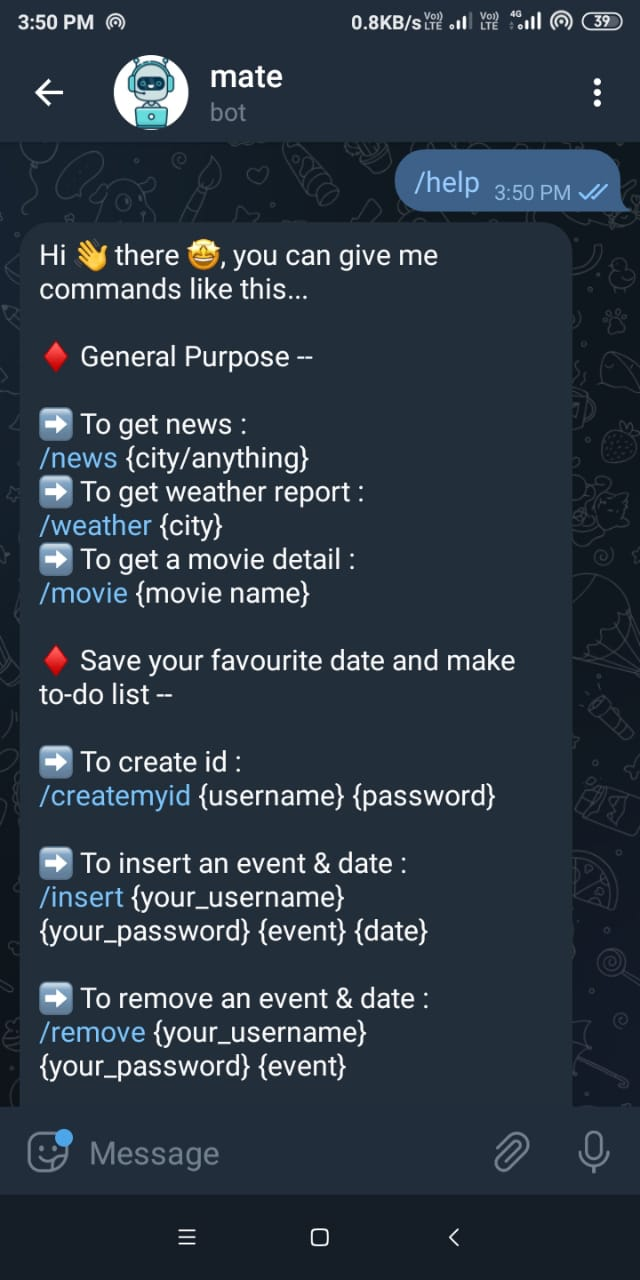
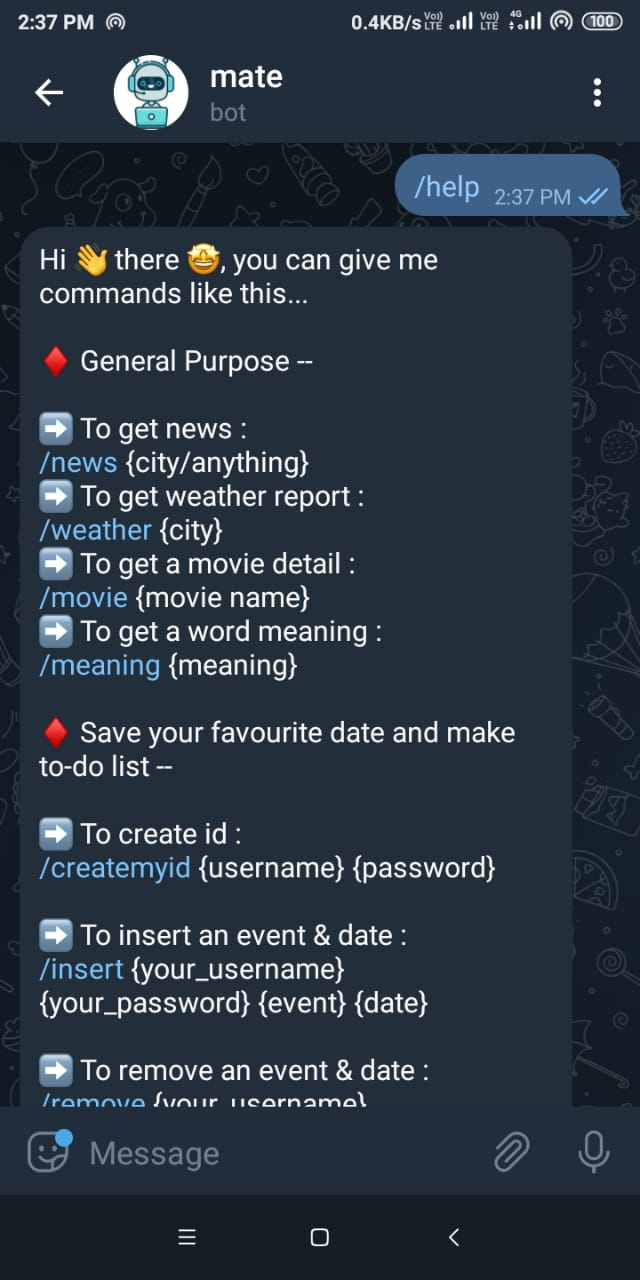
api starts working

diff --git a/app.js b/app.js
@@ -17,6 +17,7 @@ if (process.env.NODE_ENV === 'production') {
  } else {
     bot = new TelegramBot(TOKEN, { polling: true });
  }
+
 mongoose.connect(DB);
 
 const userSchema = new mongoose.Schema({
@@ -33,7 +34,7 @@ const markdownEnable = {parse_mode: "Markdown"};
 bot.onText(/\/start/, function(msg, match) {
     const chatId = msg.chat.id;
     bot.sendMessage(chatId, '* Hello! 👋 My name is Mate 🤠 I am made for you 😎*\n\n' +
-    'I can bring many informations for you such as news 📰, weather 🌤, movie detail 🎥 \nAlso I can save your favourite dates ❤ and daily tasks 📝 in me! 😉 \n\n_Would you like to try me ?_ Type /help !', markdownEnable)
+    'I can bring many informations for you such as news 📰, weather 🌤, movie detail and rating 🎥 and word meanings ❓ as well \n\nAlso I can save your favourite dates ❤ and daily tasks 📝 in me! 😉 \n\n_Would you like to try me ?_ Type /help !', markdownEnable)
 })
 
 bot.onText(/\/help/, function(msg, match) {
@@ -42,7 +43,8 @@ bot.onText(/\/help/, function(msg, match) {
     '♦ General Purpose --\n\n' +
     '➡ To get news : \n/news {city/anything}\n' +
     '➡ To get weather report : \n/weather {city}\n' +
-    '➡ To get a movie detail : \n/movie {movie name}\n\n' + 
+    '➡ To get a movie detail : \n/movie {movie name}\n' + 
+    '➡ To get a word meaning : \n/meaning {meaning}\n\n' + 
     '♦ Save your favourite date and make to-do list -- \n\n' + 
     '➡ To create id : \n/createmyid {username} {password}\n\n' +
     '➡ To insert an event & date : \n/insert {your_username} {your_password} {event} {date}\n\n' + 
@@ -68,21 +70,25 @@ bot.onText(/\/meaning (.+)/, function(msg, match) {
         if(!error && response.statusCode === 200) {
             bot.sendMessage(chatId, 'Looking for meaning of ' + word + '...')
             .then((msg) => {
-                res = JSON.parse(body);
-                console.log(res);
-                for(let i=0; i<res[0].meanings.length; i++) {
-                    bot.sendMessage(chatId, 
-                        '\nPart of speech : ' + res[0].meanings[i].partOfSpeech +
-                        '\n\nDefinitions : ' + res[0].meanings[i].definitions[0].definition + 
-                        '\n\nSynonyms : ' + res[0].meanings[i].synonyms[0] + 
-                        '\nAntonyms : ' + res[0].meanings[i].antonyms[0])
+                const res = JSON.parse(body);
+                if(res[0]) {
+                    for(let i=0; i<res[0].meanings.length; i++) {
+                        bot.sendMessage(chatId, 
+                            '\nPart of speech : ' + res[0].meanings[i].partOfSpeech +
+                            '\n\nDefinitions : ' + res[0].meanings[i].definitions[0].definition + 
+                            '\n\nSynonyms : ' + res[0].meanings[i].synonyms[0] + 
+                            '\nAntonyms : ' + res[0].meanings[i].antonyms[0]
+                        )
+                    }
+                } else {
+                    bot.sendMessage(chatId, 'Opps, ' + word + ' not found! 😞');
                 }
             })
             .catch(function(err) {
                 bot.sendMessage(chatId, 'Opps, ' + word + ' not found! 😞');
             })
         } else {
-            bot.sendMessage(chatId, 'Opps! Something went wrong 😞');
+            bot.sendMessage(chatId, 'Opps, ' + word + ' not found! 😞');
         }
     })
 })
@@ -96,7 +102,7 @@ bot.onText(/\/movie (.+)/, function (msg, match) {
             if (!error && response.statusCode == 200) {
                 bot.sendMessage(chatId, '_Looking for ' + movie + '..._', markdownEnable)
                 .then((msg) => {
-                    res = JSON.parse(body)
+                    const res = JSON.parse(body)
 
                     bot.sendPhoto(chatId, res.Poster, {
                         caption: '\nTitle : '  + res.Title + 
@@ -133,11 +139,9 @@ bot.onText(/\/news (.+)/, function (msg, match) {
 
 		if (!error && response.statusCode == 200) {
 
-			bot.sendMessage(chatId,
-				'_Looking for details of_ ' + city
-				+ '...', { parse_mode: "Markdown" })
-				.then((msg) => {
-				res = JSON.parse(body)
+			bot.sendMessage(chatId, '_Looking for details of_ ' + city + '...', { parse_mode: "Markdown" })
+            .then((msg) => {
+                const res = JSON.parse(body)
 
                 // bot.sendMessage(chatId, '_News of ' + city + '_', markdownEnable);
                 for(let i=0; i<10; i++) {
@@ -169,7 +173,7 @@ bot.onText(/\/weather (.+)/, function (msg, match) {
 
 			bot.sendMessage(chatId, '_Looking for details of_ ' + city + '...', { parse_mode: "Markdown" })
             .then((msg) => {
-                res = JSON.parse(body)
+                const res = JSON.parse(body)
                 var temp = Math.round((parseInt(
                     res.main.temp_min) - 273.15), 2)
 
@@ -198,7 +202,7 @@ bot.onText(/\/weather (.+)/, function (msg, match) {
                 bot.sendMessage(chatId, 'Opps! City not found 😞');
             })
 		} else {
-            bot.sendMessage(chatId, 'Opps! Something went wrong 😞');
+            bot.sendMessage(chatId, 'Opps! City not found 😞');
         }
 	})
 })

diff --git a/README.md b/README.md
@@ -6,7 +6,7 @@
 <a href="http://t.me/iAmAlbusYourMate_bot"><h1 align="center">mate</h1></a>
 
 
-<h2 align="center"> A friendly bot which can bring news, weather for you and save your daily tasks </h2>
+<h2 align="center"> A friendly bot which can bring news, weather, word meanings for you and save your daily tasks </h2>
 
 <h3>Some of the commands with examples</h3>
 
@@ -34,7 +34,7 @@
 - /weather [city] : This command will weather report of given city"
 
 <br>
-<img src="images/botNewsCommand.jpeg" alt="drawing" height="400" width="200">
+<img src="images/botWeatherCommand.jpeg" alt="drawing" height="400" width="200">
 
 ---
 
@@ -46,7 +46,7 @@
 
 --- 
 
-<h3>Find the bot <a href="http://t.me/iAmAlbusYourMate_bot">here</a>, or search on Telegram with name, iAmAlbusYourMate_bot</h3>
+<h3 align="center">Find the bot <a href="http://t.me/iAmAlbusYourMate_bot">here</a>, or search on Telegram with name, iAmAlbusYourMate_bot</h3>
 
 <!-- <a href="https://soshace.com/building-a-telegram-bot-with-node-js/">Resource to study for it</a>
 <a href="https://stackoverflow.com/questions/18552846/no-web-processes-running-django-in-heroku">Resource to study for it</a> -->
